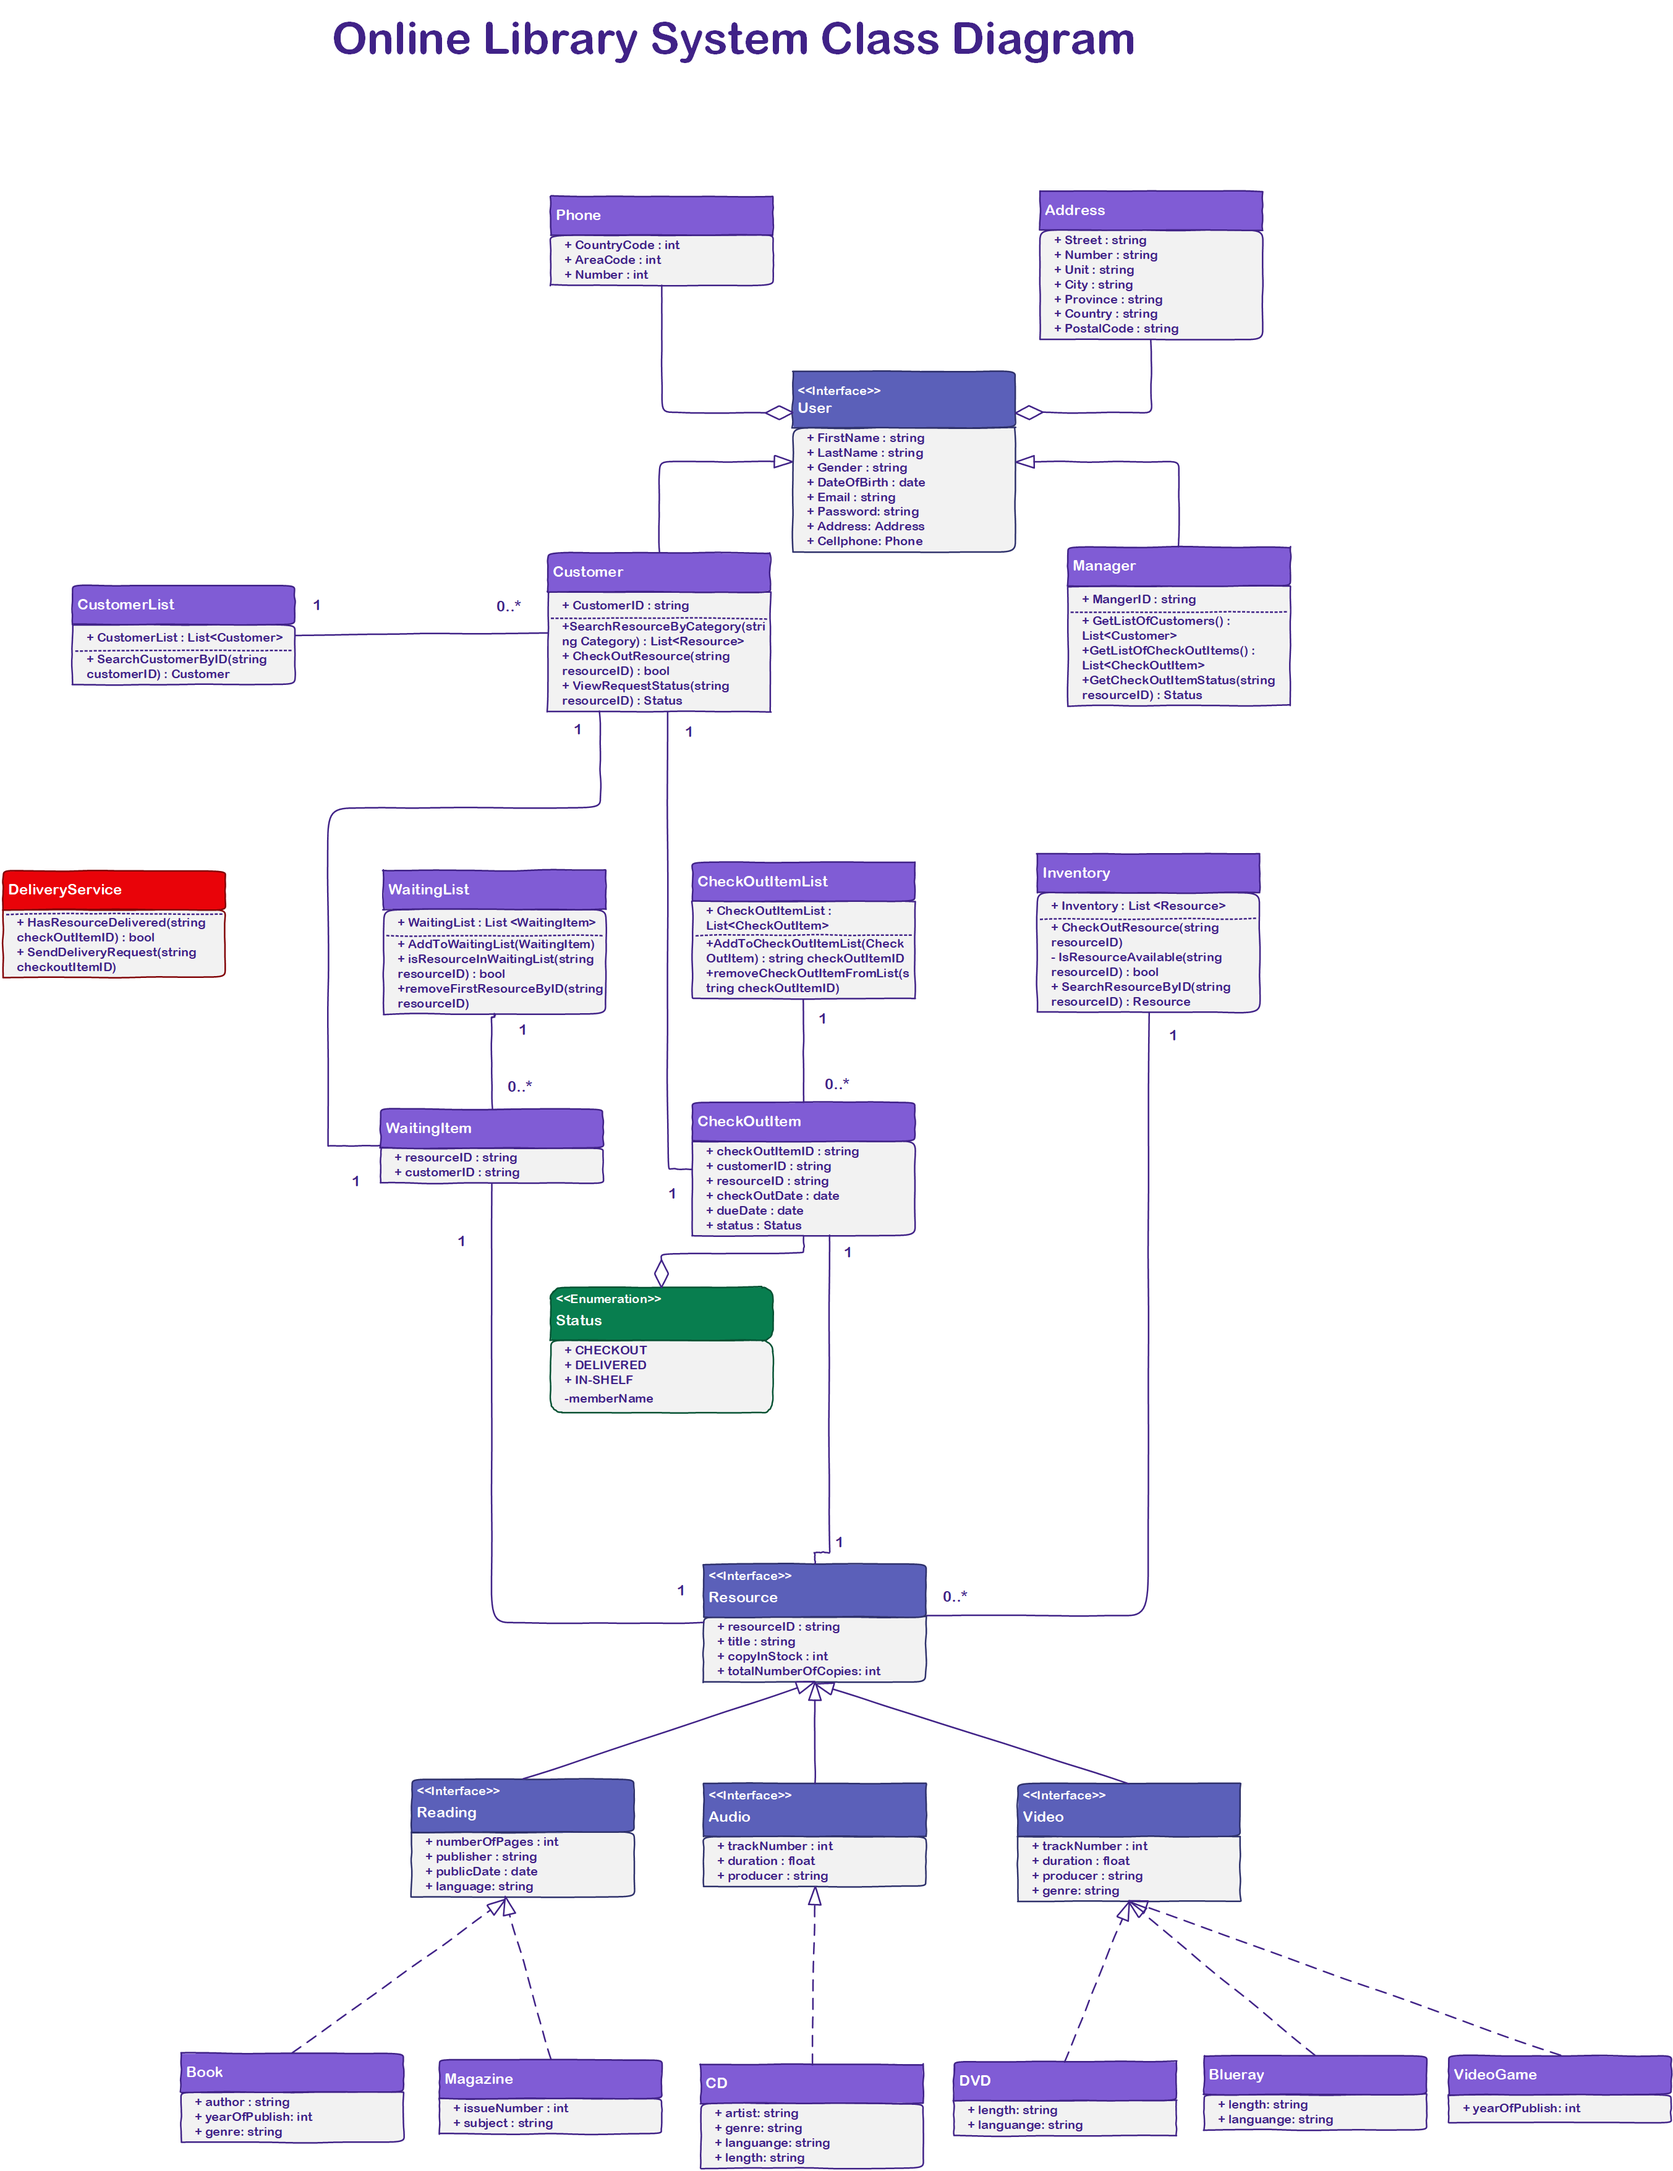
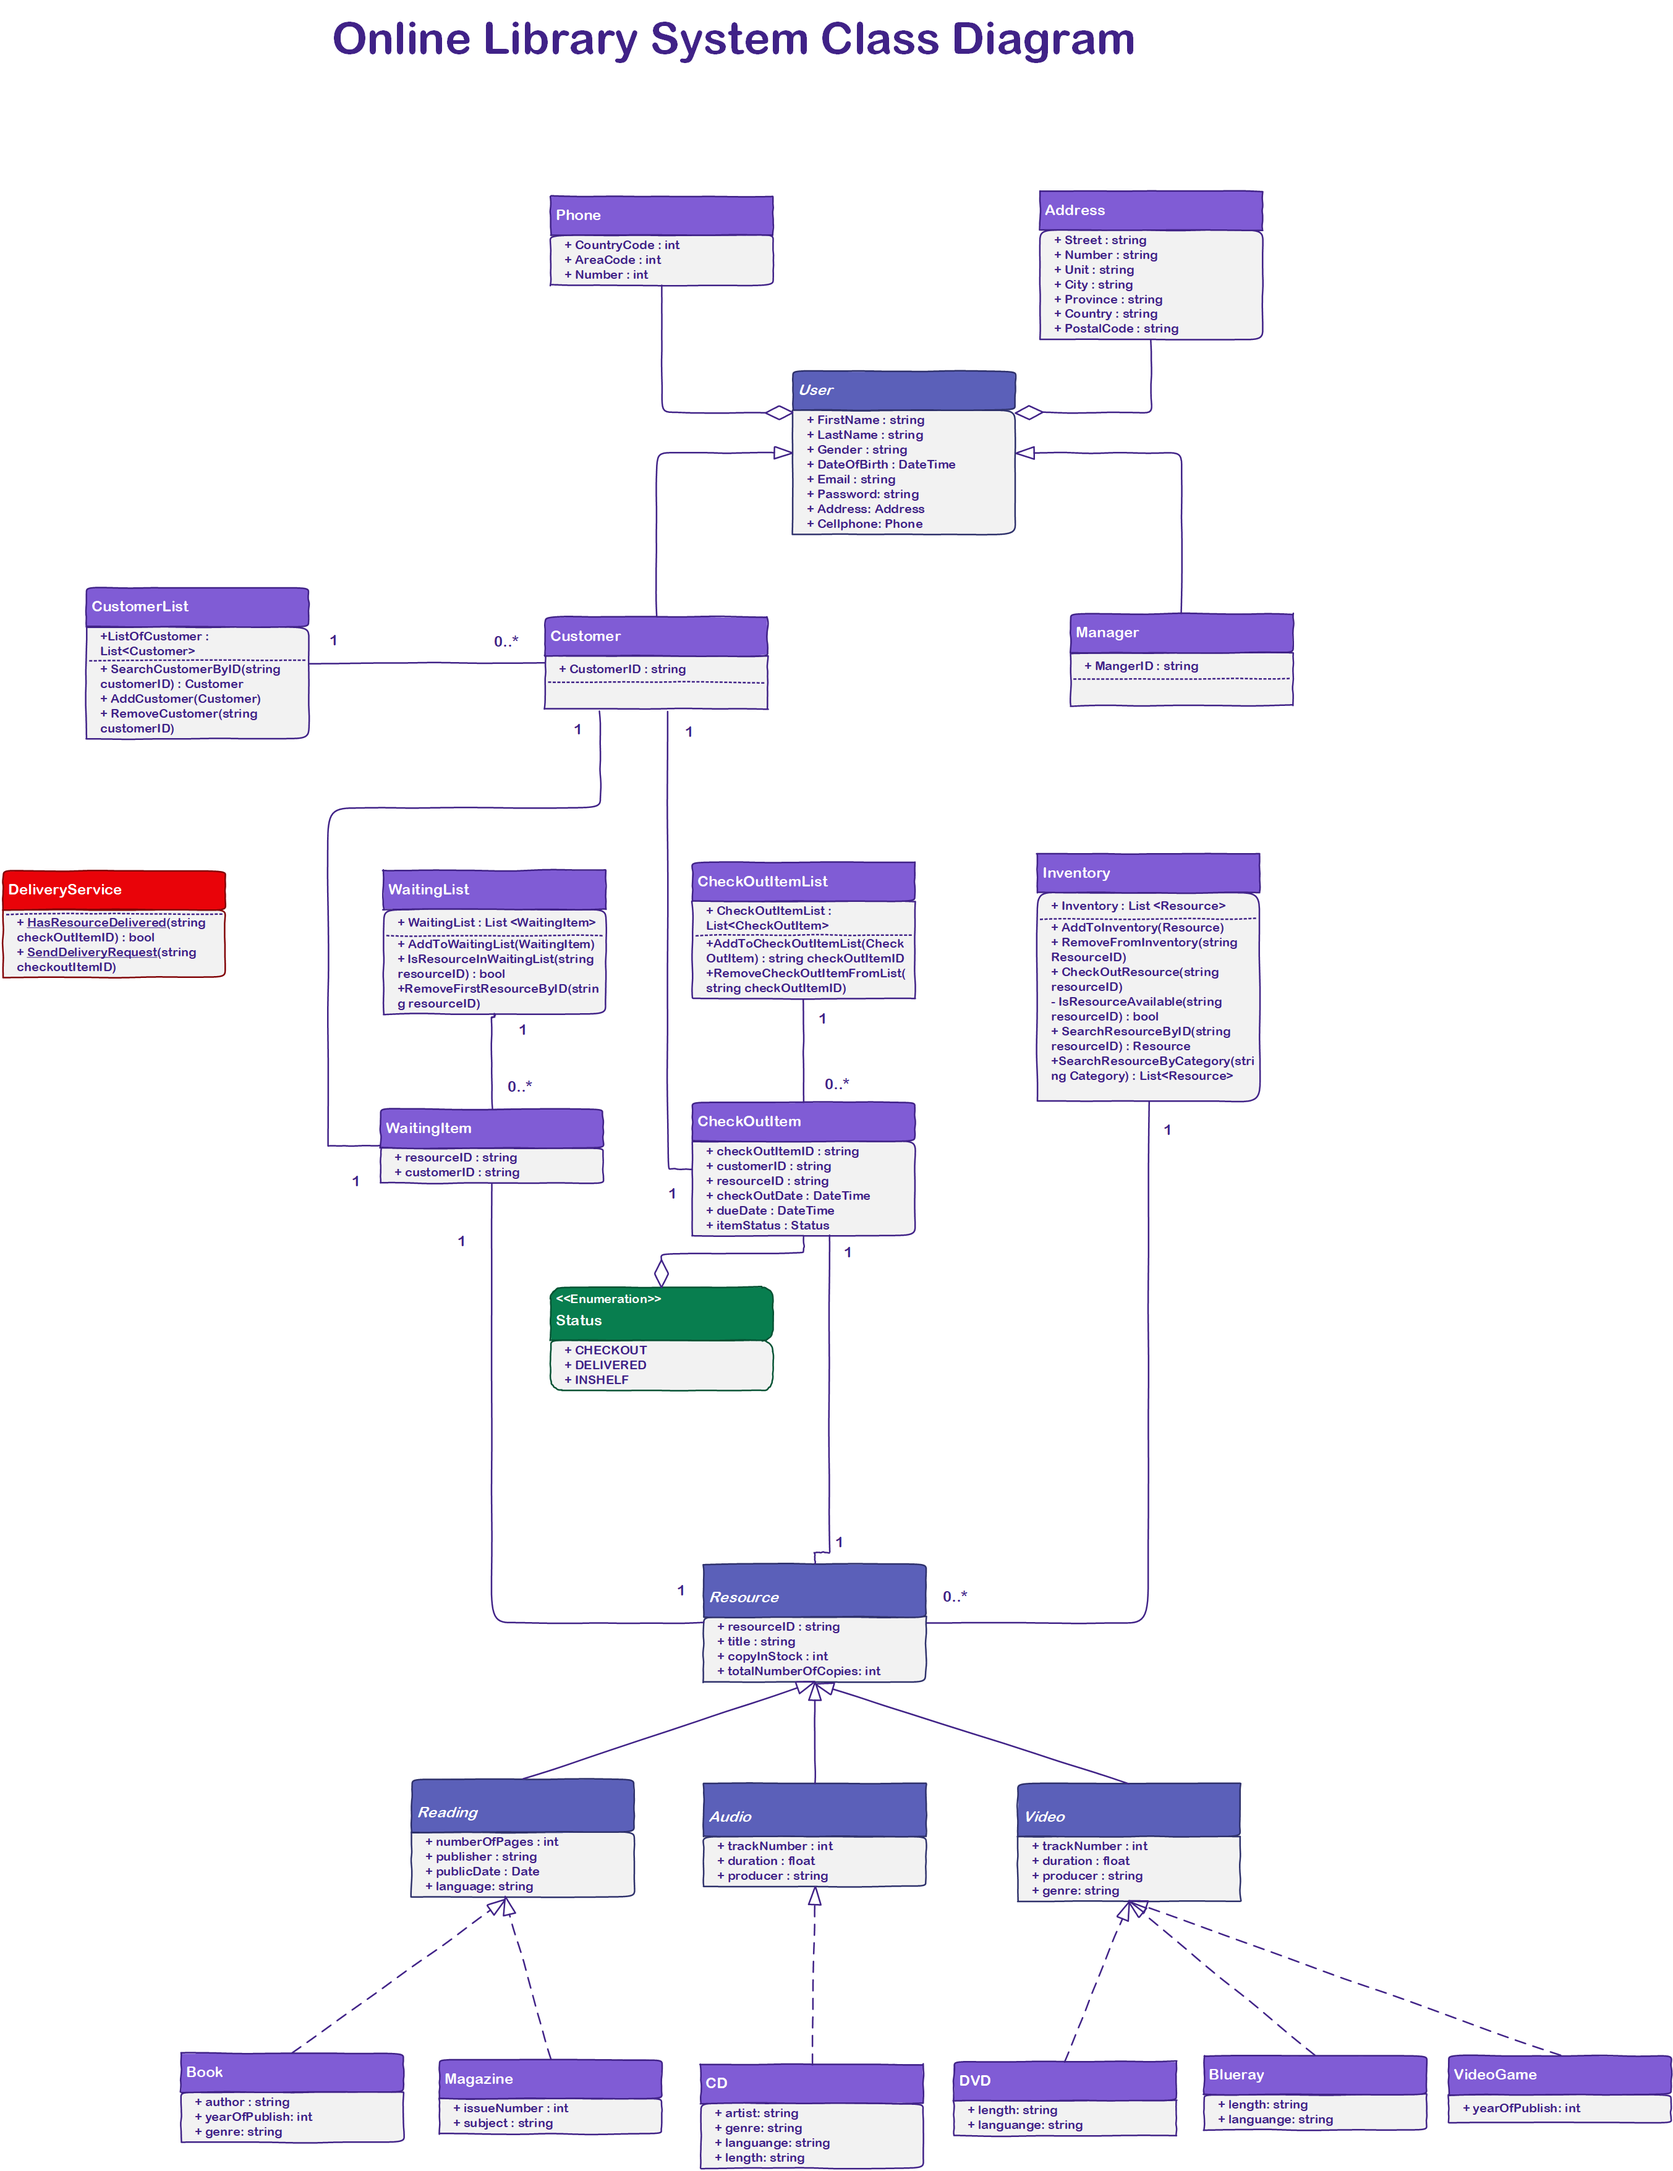
added codes

diff --git a/OnlineLibrarySystem/OnlineLibrarySystem/BookKeeping/Inventory.cs b/OnlineLibrarySystem/OnlineLibrarySystem/BookKeeping/Inventory.cs
@@ -4,15 +4,18 @@ using System.Linq;
 using System.Text;
 using System.Threading.Tasks;
 
+
 namespace OnlineLibrarySystem
 {
-    class Inventory
+    public class Inventory
     {
         public List<Resource> ListOfResource { get; set; }
 
+        public void AddToInventory(Resource r) { }
+        public void RemoveFromInventory(string ResourceID) { }
         public void CheckOutResource(string resourceID) { }
         public bool IsResourceAvailable(string resourceID) { return true; }
-        public Resource SearchresourceByID(string resourceID) { return new Resource(); }
+        public Resource SearchresourceByID(string resourceID) { return new Resources.Book(); }
 
     }
 }

diff --git a/OnlineLibrarySystem/OnlineLibrarySystem/Resources/Magazine.cs b/OnlineLibrarySystem/OnlineLibrarySystem/Resources/Magazine.cs
@@ -6,7 +6,7 @@ using System.Threading.Tasks;
 
 namespace OnlineLibrarySystem.Resources
 {
-    class Magazine : Reading
+    public class Magazine : Reading
     {
         public int IssueNumber { get; set; }
         public string Subject { get; set; }

diff --git a/OnlineLibrarySystem/OnlineLibrarySystem/Resources/Book.cs b/OnlineLibrarySystem/OnlineLibrarySystem/Resources/Book.cs
@@ -6,7 +6,7 @@ using System.Threading.Tasks;
 
 namespace OnlineLibrarySystem.Resources
 {
-    class Book : Reading
+    public class Book : Reading
     {
         public string Author { get; set; }
         public int YearOfPublish { get; set; }

diff --git a/OnlineLibrarySystem/OnlineLibrarySystem/Resources/DVD.cs b/OnlineLibrarySystem/OnlineLibrarySystem/Resources/DVD.cs
@@ -6,7 +6,7 @@ using System.Threading.Tasks;
 
 namespace OnlineLibrarySystem.Resources
 {
-    class DVD : Video
+    public class DVD : Video
     {
         public string Length { get; set; }
         public string Language { get; set; }

diff --git a/OnlineLibrarySystem/OnlineLibrarySystem/BookKeeping/WaitingItem.cs b/OnlineLibrarySystem/OnlineLibrarySystem/BookKeeping/WaitingItem.cs
@@ -6,7 +6,7 @@ using System.Threading.Tasks;
 
 namespace OnlineLibrarySystem
 {
-    class WaitingItem
+    public class WaitingItem
     {
         public string ResourceID { get; set; }
         public string CustomerID { get; set; }

diff --git a/OnlineLibrarySystem/OnlineLibrarySystem/Resources/CD.cs b/OnlineLibrarySystem/OnlineLibrarySystem/Resources/CD.cs
@@ -6,7 +6,7 @@ using System.Threading.Tasks;
 
 namespace OnlineLibrarySystem.Resources
 {
-    class CD : Audio
+    public class CD : Audio
     {
         public string Artist { get; set; }
         public string Genre { get; set; }

diff --git a/OnlineLibrarySystem/OnlineLibrarySystem/Resources/Blueray.cs b/OnlineLibrarySystem/OnlineLibrarySystem/Resources/Blueray.cs
@@ -6,7 +6,7 @@ using System.Threading.Tasks;
 
 namespace OnlineLibrarySystem.Resources
 {
-    class Blueray
+    public class Blueray
     {
         public string Length { get; set; }
         public string Language { get; set; }

diff --git a/OnlineLibrarySystem/OnlineLibrarySystem/BookKeeping/CheckOutItemList.cs b/OnlineLibrarySystem/OnlineLibrarySystem/BookKeeping/CheckOutItemList.cs
@@ -6,7 +6,7 @@ using System.Threading.Tasks;
 
 namespace OnlineLibrarySystem
 {
-    class CheckOutItemList
+    public class CheckOutItemList
     {
         public List<CheckOutItemList> ListOfcheckOutItem { get; set; }
 

diff --git a/OnlineLibrarySystem/OnlineLibrarySystem/Resources/Videogame.cs b/OnlineLibrarySystem/OnlineLibrarySystem/Resources/Videogame.cs
@@ -6,7 +6,7 @@ using System.Threading.Tasks;
 
 namespace OnlineLibrarySystem.Resources
 {
-    class Videogame : Video
+    public class Videogame : Video
     {
         public int YearOfPublish { get; set; }
     }

diff --git a/OnlineLibrarySystem/OnlineLibrarySystem/BookKeeping/WaitingList.cs b/OnlineLibrarySystem/OnlineLibrarySystem/BookKeeping/WaitingList.cs
@@ -6,7 +6,7 @@ using System.Threading.Tasks;
 
 namespace OnlineLibrarySystem
 {
-    class WaitingList
+    public class WaitingList
     {
         public List<WaitingItem> ListOfWaitingItem { get; set; }
 

diff --git a/OnlineLibrarySystem/OnlineLibrarySystem/BookKeeping/CustomerList.cs b/OnlineLibrarySystem/OnlineLibrarySystem/BookKeeping/CustomerList.cs
@@ -6,7 +6,7 @@ using System.Threading.Tasks;
 
 namespace OnlineLibrarySystem
 {
-    class CustomerList
+    public class CustomerList
     {
         public List<Customer> ListOfCustomer { get; set; }
 
